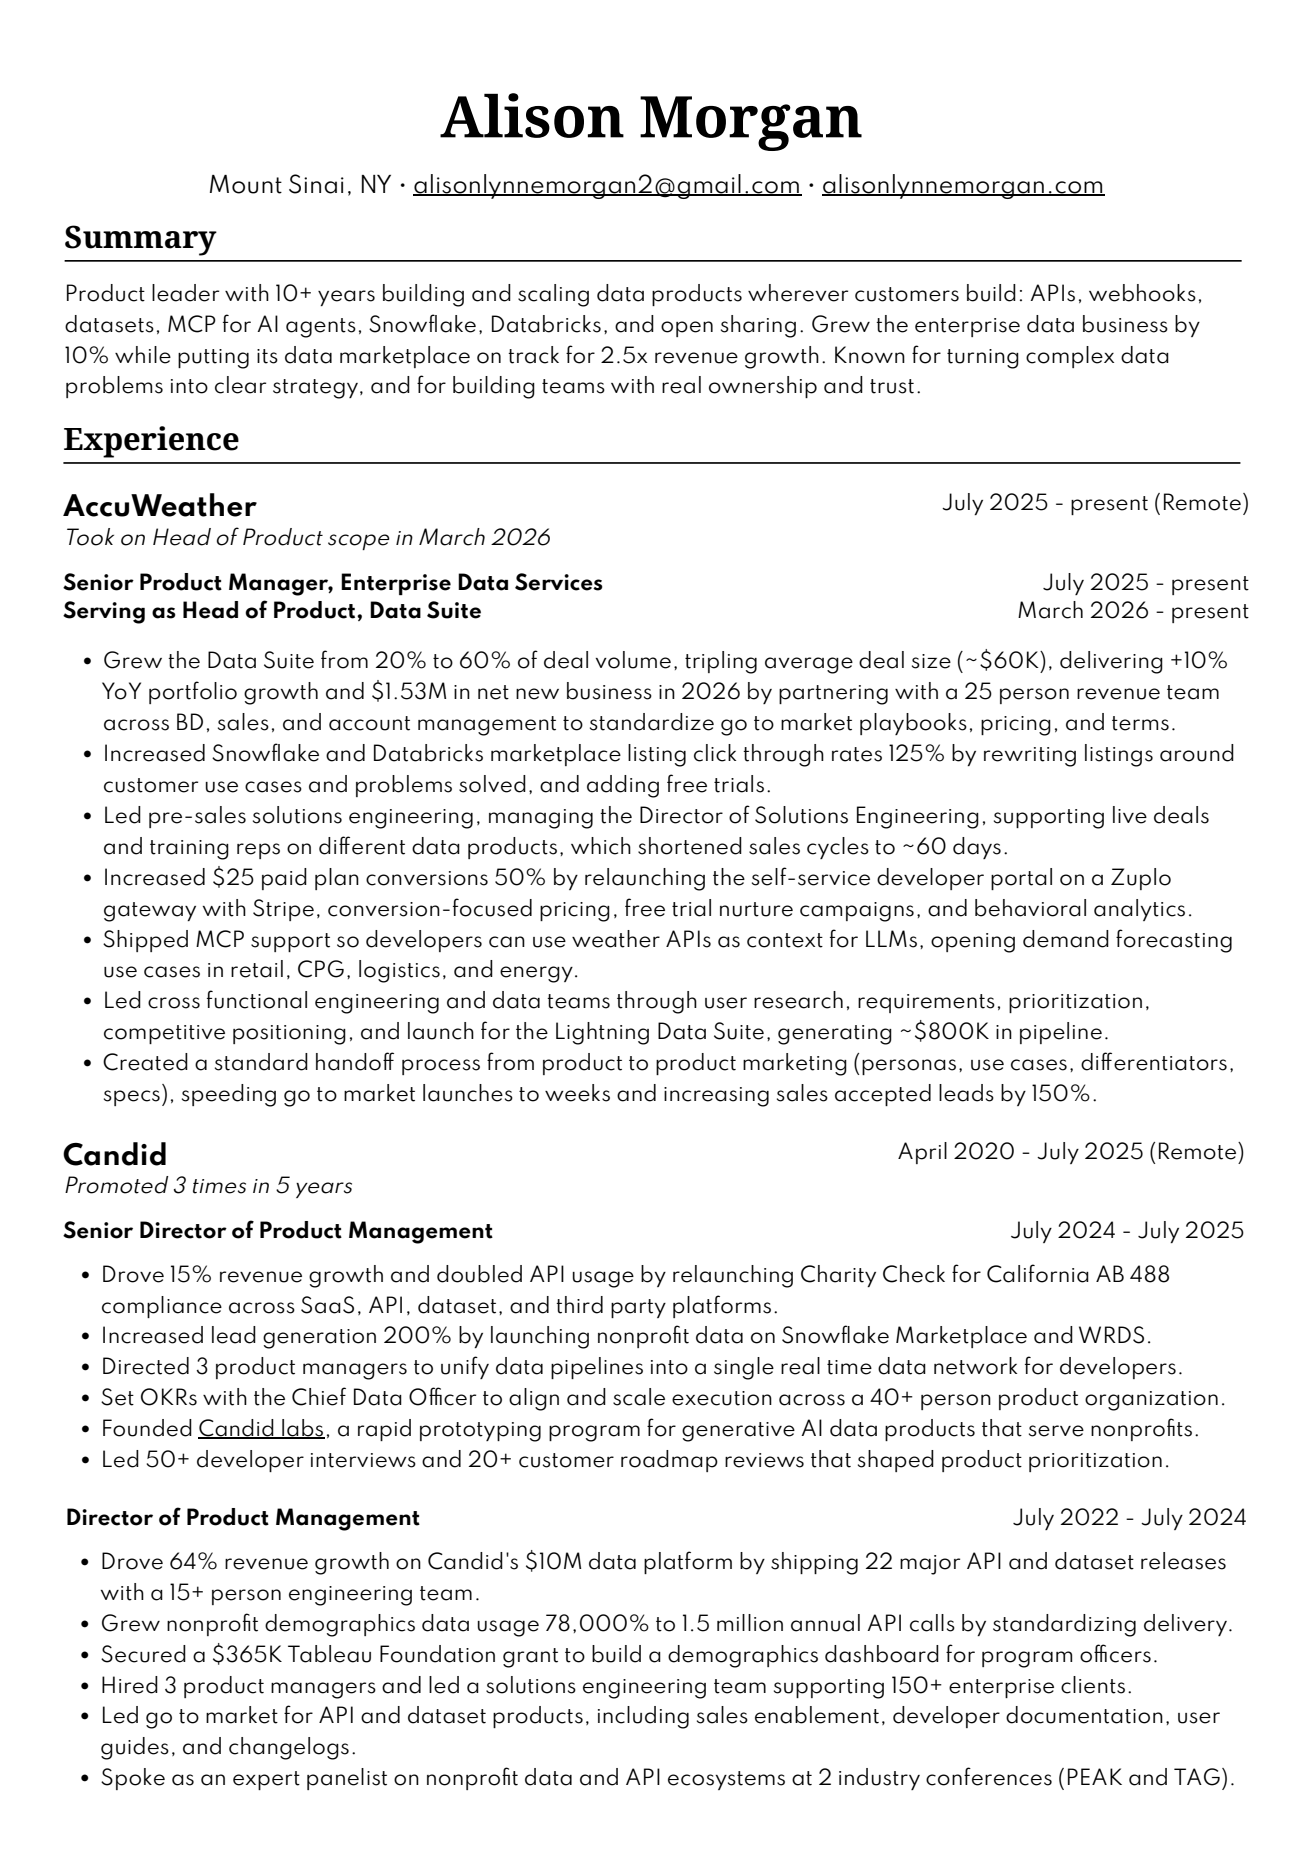
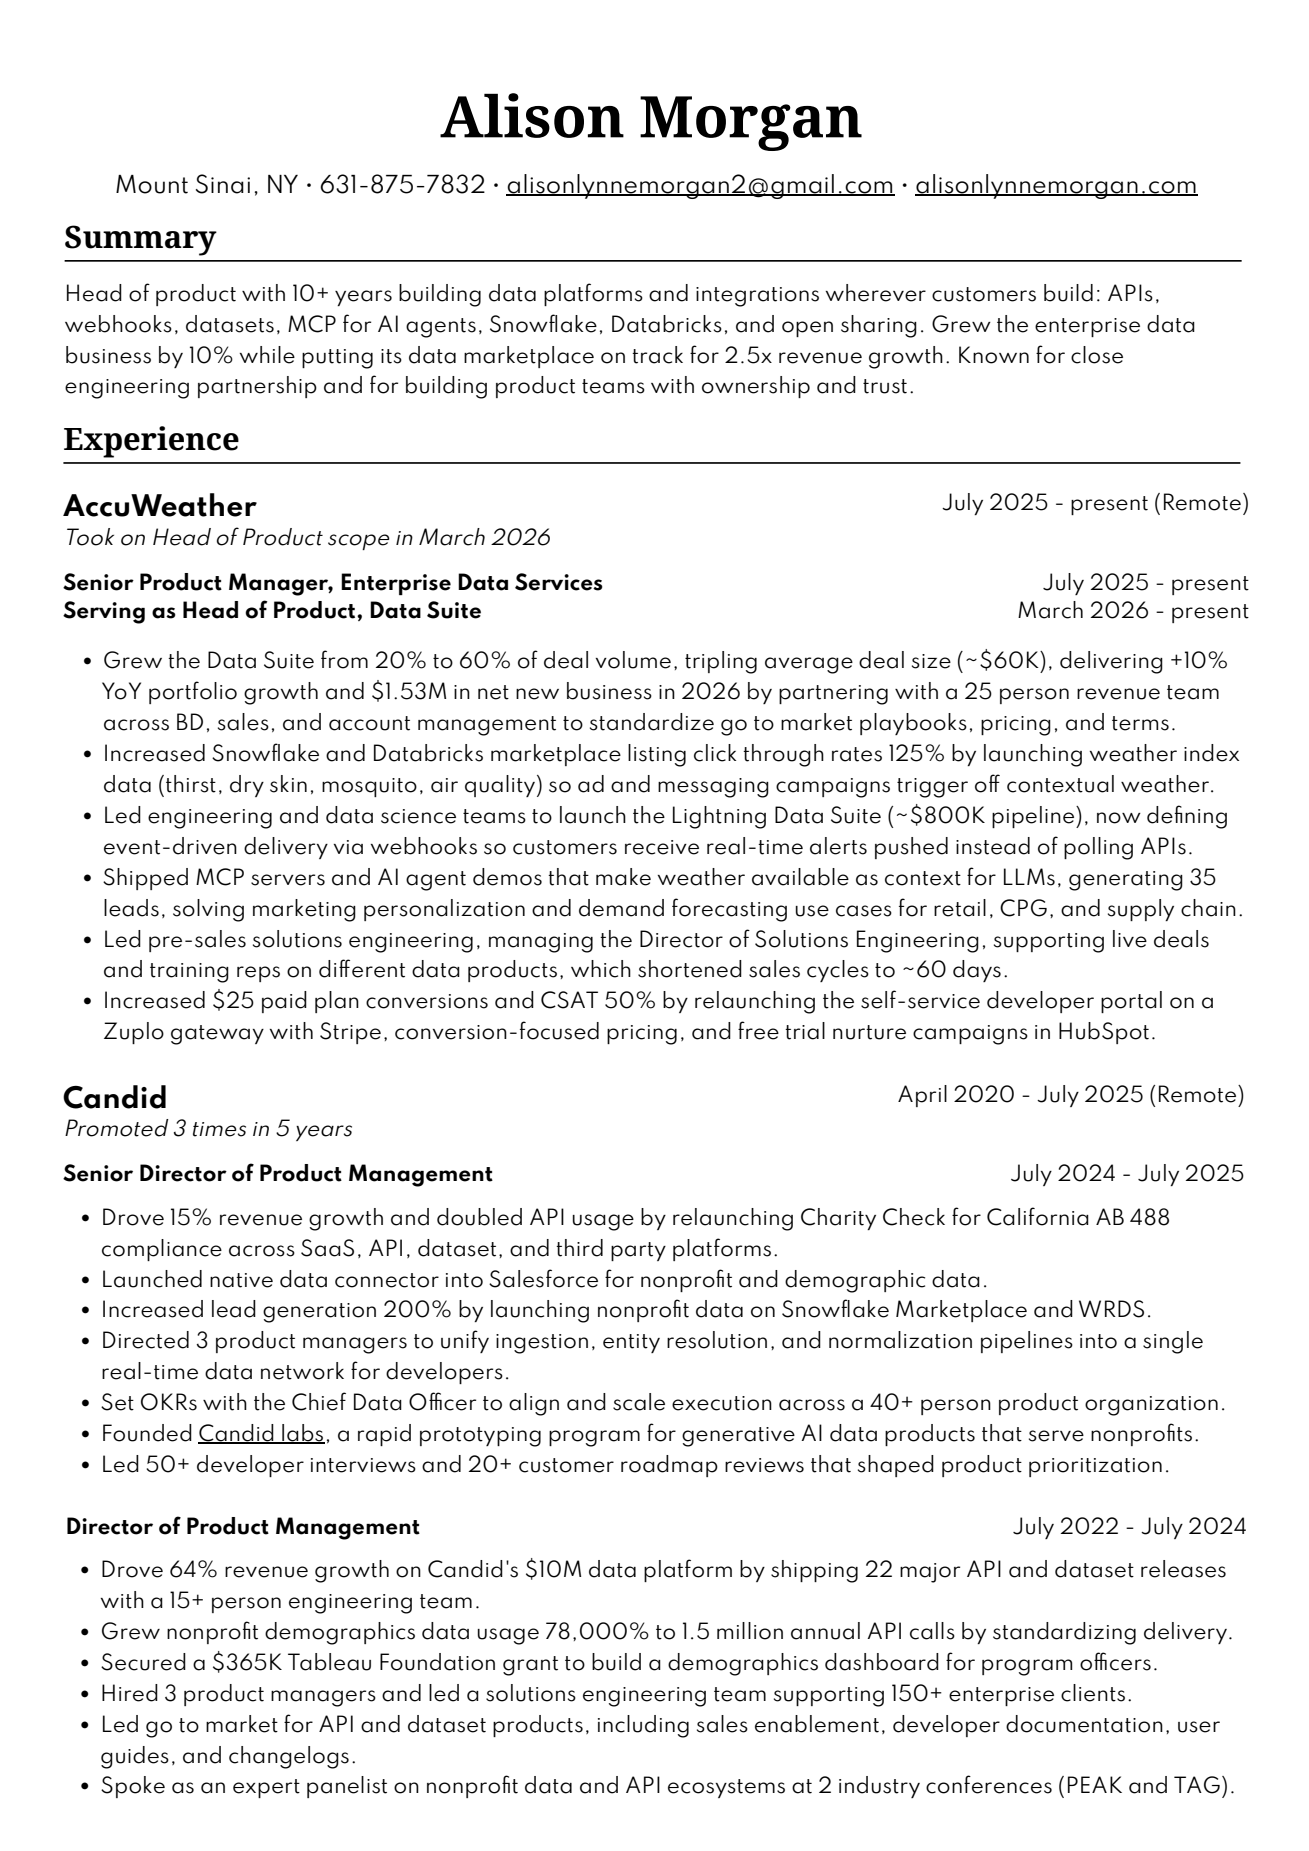
Update resume PDF to 10.04.2026 version
Claude-Session: https://claude.ai/code/session_017aFeZUpZW66B1cdhtSbjoK

diff --git a/resume.html b/resume.html
@@ -40,24 +40,24 @@
           <p class="aka">formerly Alison Jannette</p>
         </div>
         <div class="resume-actions">
-          <a class="btn" href="Alison_Morgan_Resume.pdf?v=r2" download="Alison_Morgan_Resume.pdf">Download PDF ↓</a>
-          <a class="btn ghost" href="Alison_Morgan_Resume.pdf?v=r2" target="_blank" rel="noopener">Open in new tab ↗</a>
+          <a class="btn" href="Alison_Morgan_Resume.pdf?v=r3" download="Alison_Morgan_Resume.pdf">Download PDF ↓</a>
+          <a class="btn ghost" href="Alison_Morgan_Resume.pdf?v=r3" target="_blank" rel="noopener">Open in new tab ↗</a>
         </div>
       </div>
 
       <!-- To update: replace Alison_Morgan_Resume.pdf and the page images in assets/resume/ -->
       <div class="resume-embed">
-        <object class="resume-pdf" data="Alison_Morgan_Resume.pdf?v=r2#navpanes=0&amp;pagemode=none&amp;view=FitH" type="application/pdf" aria-label="Alison Morgan resume (PDF)">
+        <object class="resume-pdf" data="Alison_Morgan_Resume.pdf?v=r3#navpanes=0&amp;pagemode=none&amp;view=FitH" type="application/pdf" aria-label="Alison Morgan resume (PDF)">
           <!-- Shown when the browser can't display PDFs inline -->
           <div class="resume-pages resume-fallback">
-            <img src="assets/resume/page-1.png?v=r2" alt="Alison Morgan resume, page 1" width="1309" height="1851">
-            <img src="assets/resume/page-2.png?v=r2" alt="Alison Morgan resume, page 2" width="1309" height="1851" loading="lazy">
+            <img src="assets/resume/page-1.png?v=r3" alt="Alison Morgan resume, page 1" width="1309" height="1851">
+            <img src="assets/resume/page-2.png?v=r3" alt="Alison Morgan resume, page 2" width="1309" height="1851" loading="lazy">
           </div>
         </object>
         <div class="resume-pages resume-mobile">
-          <img src="assets/resume/page-1.png?v=r2" alt="Alison Morgan resume, page 1" width="1309" height="1851">
-          <img src="assets/resume/page-2.png?v=r2" alt="Alison Morgan resume, page 2" width="1309" height="1851" loading="lazy">
-          <a class="btn" href="Alison_Morgan_Resume.pdf?v=r2" download="Alison_Morgan_Resume.pdf">Download PDF ↓</a>
+          <img src="assets/resume/page-1.png?v=r3" alt="Alison Morgan resume, page 1" width="1309" height="1851">
+          <img src="assets/resume/page-2.png?v=r3" alt="Alison Morgan resume, page 2" width="1309" height="1851" loading="lazy">
+          <a class="btn" href="Alison_Morgan_Resume.pdf?v=r3" download="Alison_Morgan_Resume.pdf">Download PDF ↓</a>
         </div>
       </div>
     </div>
